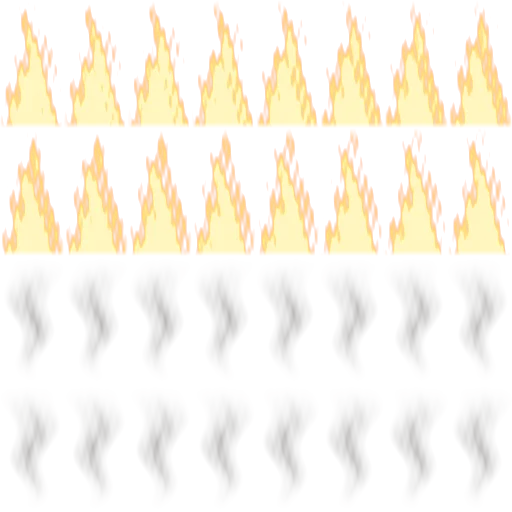
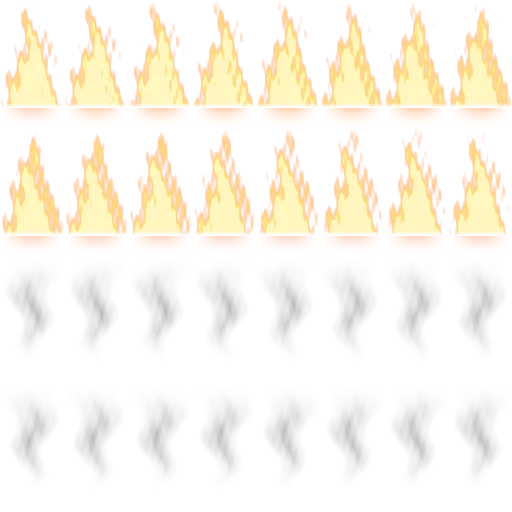
fix(fire): balance firefighting and animate firelight
Pause repairs while fires burn and tune suppression, damage, spread and water capacity.

Add rescue coverage and bake animated firelight into the flame atlas.

Live-Update: breaking (fire simulation and rendering changes)

diff --git a/tests/e2e/fireSystem.test.js b/tests/e2e/fireSystem.test.js
@@ -29,8 +29,8 @@ test('[E00262] fire engine extinguishes a burning building and restores fire sta
   })
   expect(result.restored).toBe(true)
   expect(result.burning).toBe(false)
-  expect(result.water).toBeGreaterThan(870)
-  expect(result.water).toBeLessThan(881)
+  expect(result.water).toBeGreaterThan(1778)
+  expect(result.water).toBeLessThan(1781)
   expect(result.damaged).toBe(true)
   await expect.poll(() => page.evaluate(async() => {
     const { getPreparedSprite } = await import('/src/rendering/prepared/preparedSpritePipeline.js')
@@ -77,4 +77,99 @@ test('[E00263] fire atlas prepares and graphics quality variants render transluc
   await detail.selectOption('high')
   expect(result.width).toBe(512)
   expect(result.modes).toEqual([{ detail: 'high', translucent: true }, { detail: 'low', translucent: true }])
+})
+
+test('[E00266] one engine saves a fully burning 3x3 building with neighbouring fire', async({ page }) => {
+  await prepareRegressionScenario(page, '419&size=64&players=2')
+  const result = await page.evaluate(async() => {
+    const { createBuilding, placeBuilding } = await import('/src/buildings.js')
+    const { igniteTile, updateFireSystem } = await import('/src/game/fireSystem.js')
+    const gs = window.gameState
+    const owner = window.__regression.human
+    const building = createBuilding('vehicleFactory', 26, 22)
+    building.owner = owner
+    gs.buildings.push(building)
+    placeBuilding(building, gs.mapGrid, gs.occupancyMap)
+    const truck = window.__regression.unit('fireEngine', owner, 25, 23)
+    for (let y = 22; y < 25; y++) for (let x = 26; x < 29; x++) {
+      igniteTile(gs, gs.mapGrid, x, y)
+      gs.mapGrid[y][x].fire.age = 80
+    }
+    // A neighbouring fire can spread back into the building and is within hose range.
+    gs.mapGrid[21][26].type = 'woods'
+    igniteTile(gs, gs.mapGrid, 26, 21)
+    gs.mapGrid[21][26].fire.age = 80
+    let seed = 123456
+    const random = () => { seed = (Math.imul(seed, 1664525) + 1013904223) >>> 0; return seed / 4294967296 }
+    let ticks = 0
+    while (gs.fires.length && building.health > 0 && truck.water > 0 && ticks < 60 * 120) {
+      updateFireSystem([truck], gs, gs.mapGrid, 1000 / 60, null, random)
+      ticks++
+    }
+    return { fires: gs.fires.length, health: building.health, water: truck.water, ticks }
+  })
+  expect(result.fires).toBe(0)
+  expect(result.health).toBeGreaterThan(0)
+  expect(result.water).toBeGreaterThan(0)
+  expect(result.ticks).toBeLessThan(60 * 120)
+})
+
+
+test('[E00267] fire pauses repairs until the attack cooldown expires', async({ page }) => {
+  await prepareRegressionScenario(page, '419&size=64&players=2')
+  const result = await page.evaluate(async() => {
+    const { createBuilding, placeBuilding, updateBuildingsUnderRepair, updateBuildingsAwaitingRepair } = await import('/src/buildings.js')
+    const { igniteTile, updateFireSystem, restoreFires } = await import('/src/game/fireSystem.js')
+    const gs = window.gameState
+    const building = createBuilding('vehicleFactory', 26, 22)
+    building.owner = window.__regression.human
+    gs.buildings.push(building)
+    placeBuilding(building, gs.mapGrid, gs.occupancyMap)
+    building.health -= 50
+    gs.buildingsUnderRepair = [{ building, startTime: performance.now(), duration: 20000, startHealth: building.health, targetHealth: building.maxHealth, healthToRepair: 50, cost: 100, costPaid: 0 }]
+    igniteTile(gs, gs.mapGrid, 26, 22)
+    updateFireSystem([], gs, gs.mapGrid, 1000)
+    const attackTime = building.lastAttackedTime
+    updateBuildingsUnderRepair(gs, attackTime)
+    const paused = gs.buildingsUnderRepair.length === 0 && gs.buildingsAwaitingRepair.length === 1
+    updateBuildingsAwaitingRepair(gs, attackTime + 9999)
+    const waiting = gs.buildingsUnderRepair.length === 0
+    restoreFires(gs, gs.mapGrid, [])
+    updateBuildingsAwaitingRepair(gs, attackTime + 10000)
+    return { paused, waiting, resumed: gs.buildingsUnderRepair.length === 1 }
+  })
+  expect(result).toEqual({ paused: true, waiting: true, resumed: true })
+})
+
+test('[E00268] the running game saves a fully burning factory with one engine', async({ page }) => {
+  await prepareRegressionScenario(page, '419&size=64&players=2')
+  await page.evaluate(async() => {
+    const { igniteTile } = await import('/src/game/fireSystem.js')
+    const gs = window.gameState
+    const building = window.__regression.building('vehicleFactory', window.__regression.human, 26, 22)
+    const truck = window.__regression.unit('fireEngine', window.__regression.human, 25, 23)
+    for (let y = 22; y < 25; y++) for (let x = 26; x < 29; x++) {
+      igniteTile(gs, gs.mapGrid, x, y)
+      gs.mapGrid[y][x].fire.age = 80
+    }
+    gs.mapGrid[21][26].type = 'woods'
+    igniteTile(gs, gs.mapGrid, 26, 21)
+    gs.mapGrid[21][26].fire.age = 80
+    window.__fireTest = { building, truck }
+    gs.speedMultiplier = 3
+    gs.gamePaused = false
+  })
+  await expect.poll(() => page.evaluate(() => ({
+    fires: window.gameState.fires.length,
+    health: window.__fireTest.building.health,
+    water: window.__fireTest.truck.water
+  })), { timeout: 90000 }).toMatchObject({ fires: 0, health: expect.any(Number), water: expect.any(Number) })
+  const result = await page.evaluate(() => ({
+    alive: window.gameState.buildings.includes(window.__fireTest.building),
+    health: window.__fireTest.building.health,
+    water: window.__fireTest.truck.water
+  }))
+  expect(result.alive).toBe(true)
+  expect(result.health).toBeGreaterThan(0)
+  expect(result.water).toBeGreaterThan(0)
 })

diff --git a/tests/unit/fireSystem.test.js b/tests/unit/fireSystem.test.js
@@ -69,8 +69,8 @@ describe('Fire simulation', () => {
     grid[4][5].type = 'woods'
     igniteTile(state, grid, 4, 4)
     const truck = engine(3, 4)
-    for (let i = 0; i < 3; i++) updateFireSystem([truck], state, grid, 1000, null, () => 0)
-    expect(truck.water).toBe(880)
+    updateFireSystem([truck], state, grid, 500, null, () => 0)
+    expect(truck.water).toBe(980)
     expect(state.fires).toHaveLength(0)
     expect(grid[4][4].tags).not.toContain('fire')
   })
@@ -79,7 +79,7 @@ describe('Fire simulation', () => {
     building(grid, state, 4, 4)
     grid[4][5].type = 'woods'
     igniteTile(state, grid, 4, 4)
-    updateFireSystem([engine(3, 4)], state, grid, 1000, null, () => 0)
+    updateFireSystem([engine(3, 4)], state, grid, 250, null, () => 0)
     updateFireSystem([], state, grid, 5000, null, () => 0)
     expect(grid[4][5].fire).toBeDefined()
   })
@@ -144,10 +144,10 @@ it('[U07178] scales damage, suppression time and spread across all five severiti
     updateFireSystem([], state, grid, 1000)
     expect(house.health).toBe(300 - severity * 2)
     const truck = engine(3, 4)
-    updateFireSystem([truck], state, grid, 3000)
+    updateFireSystem([truck], state, grid, 500)
     expect(Boolean(grid[4][4].fire)).toBe(severity > 1)
     if (severity > 1) {
-      updateFireSystem([truck], state, grid, (severity - 1) * 3000)
+      updateFireSystem([truck], state, grid, (severity - 1) * 500)
       expect(grid[4][4].fire).toBeUndefined()
     }
   }

diff --git a/src/rendering/fireRenderer.js b/src/rendering/fireRenderer.js
@@ -76,7 +76,8 @@ export function renderFires(ctx, state, grid, units, scroll) {
 // At 1,000 visible tiles: <=6,000 quads; raster area scales with DPR squared.
 // No particle objects, gradients, readbacks, filters, or gameplay resizing caches.
 function drawHighFire(ctx, sheet, x, y, tx, ty, severity, strength, now) {
-  const frame = (Math.floor(now / 70) + tx * 3 + ty * 7) & 15
+  const variant = Math.abs((tx * 17 + ty * 31) % 5)
+  const frame = (Math.floor(now / (65 + variant * 7)) + tx * 3 + ty * 7) & 15
   const width = TILE_SIZE * (1.15 + severity * 0.12)
   const height = TILE_SIZE * (0.8 + severity * 0.32)
   const windX = Math.max(-1, Math.min(1, WIND_DIRECTION.x))
@@ -85,7 +86,7 @@ function drawHighFire(ctx, sheet, x, y, tx, ty, severity, strength, now) {
   ctx.translate(x, y)
   ctx.transform(1, 0, -windX * 0.42, 1 - windY * 0.16, 0, 0)
   ctx.globalAlpha = strength
-  ctx.drawImage(sheet, (frame % 8) * 64, Math.floor(frame / 8) * 128, 64, 128, -width / 2, -height, width, height)
+  ctx.drawImage(sheet, (frame % 8) * 64, Math.floor(frame / 8) * 128, 64, 128, -width / 2, -height, width, height * 1.2)
   ctx.globalAlpha = strength * (0.35 + severity * 0.13)
   ctx.drawImage(sheet, (frame % 8) * 64, (2 + Math.floor(frame / 8)) * 128, 64, 128, -width * 0.65, -height * 2, width * 1.3, height * 1.7)
   ctx.fillStyle = '#ffdc89'

diff --git a/src/game/fireSystem.js b/src/game/fireSystem.js
@@ -169,6 +169,7 @@ export function updateFireSystem(units, state, grid, delta, findPath, random = g
   if (!fires?.length) return
   // Fix the count so newly spread fires cannot spread/damage again in this tick.
   const count = fires.length
+  const attackTime = performance.now()
   for (let i = count - 1; i >= 0; i--) {
     const fire = fires[i]
     const severity = getFireSeverity(fire)
@@ -183,7 +184,12 @@ export function updateFireSystem(units, state, grid, delta, findPath, random = g
       let damage = FIRE_DAMAGE_PER_SECOND * severity * seconds
       if (building.owner === state.humanPlayer && globalThis.window?.cheatSystem) damage = window.cheatSystem.preventDamage(building, damage)
       if (building.type === 'city') applyCityDamage(building, damage, grid, state)
-      else { building.health = Math.max(0, building.health - damage); building.destroyedCause = 'fire' }
+      else {
+        building.health = Math.max(0, building.health - damage)
+        building.destroyedCause = 'fire'
+        building.lastAttackedTime = attackTime
+        building.needsRepairPause = true
+      }
     }
     if (fire.sprayed) { fire.spreadElapsed = 0; continue }
     fire.spreadElapsed += seconds

diff --git a/src/config.js b/src/config.js
@@ -2173,11 +2173,11 @@ export const CONFIG_VARIABLE_NAMES = [...EXPORTED_CONFIG_VARIABLES]
 export const CITY_BUILDING_HEALTH = Object.freeze({ 1: 150, 2: 250, 4: 400 })
 
 // Fire spread is rolled once per eligible neighbour every five simulation seconds.
-export let FIRE_SPREAD_PROBABILITY = 0.2
-export let FIRE_DAMAGE_PER_SECOND = 2
-export const FIRE_WATER_CAPACITY = 1000
+export let FIRE_SPREAD_PROBABILITY = 0.04
+export let FIRE_DAMAGE_PER_SECOND = 0.2
+export const FIRE_WATER_CAPACITY = 1800
 export const FIRE_WATER_PER_SECOND = 40
-export const FIRE_EXTINGUISH_SECONDS = 3
+export const FIRE_EXTINGUISH_SECONDS = 0.5
 export const FIRE_HOSE_RANGE = 4
 export function setFireSpreadProbability(value) { FIRE_SPREAD_PROBABILITY = Math.max(0, Math.min(1, Number(value) || 0)) }
 export function setFireDamagePerSecond(value) { FIRE_DAMAGE_PER_SECOND = Math.max(0, Number(value) || 0) }

diff --git a/src/units.js b/src/units.js
@@ -11,7 +11,8 @@ import {
   UNIT_GAS_PROPERTIES,
   TANKER_SUPPLY_CAPACITY,
   UNIT_AMMO_CAPACITY,
-  AMMO_TRUCK_CARGO
+  AMMO_TRUCK_CARGO,
+  FIRE_WATER_CAPACITY
 } from './config.js'
 import { logPerformance } from './performanceUtils.js'
 import { getUniqueId, updateUnitSpeedModifier, getUnitCost, getBuildingIdentifier } from './utils.js'
@@ -1411,7 +1412,7 @@ export function createUnit(factory, unitType, x, y, options = {}) {
       streetSpeedMultiplier: unitProps.streetSpeedMultiplier || 6.0
     }
   }
-  if (actualType === 'fireEngine') { unit.water = 1000; unit.maxWater = 1000; unit.canFire = false }
+  if (actualType === 'fireEngine') { unit.water = FIRE_WATER_CAPACITY; unit.maxWater = FIRE_WATER_CAPACITY; unit.canFire = false }
   if (actualType === 'tankerTruck') {
     unit.maxSupplyGas = TANKER_SUPPLY_CAPACITY
     unit.supplyGas = TANKER_SUPPLY_CAPACITY

diff --git a/src/buildings.js b/src/buildings.js
@@ -824,7 +824,11 @@ function processPendingRepairPauses(gameState, currentTime) {
   // Check all buildings under repair for pause marks
   gameState.buildingsUnderRepair.forEach(repairInfo => {
     if (repairInfo.building.needsRepairPause) {
-      buildingsToProcess.push(repairInfo.building)
+      if (currentTime - repairInfo.building.lastAttackedTime < 10000) {
+        buildingsToProcess.push(repairInfo.building)
+      } else {
+        delete repairInfo.building.needsRepairPause
+      }
     }
   })
 

diff --git a/specs/fire-system.md b/specs/fire-system.md
@@ -1,10 +1,10 @@
 # Fire system
 
-Fire engines are unarmed ground supply vehicles produced at a Vehicle Factory after a Fire Department is built. Departments unlock after Vehicle Workshop, occupy 3×3 tiles, cost 2500, consume 20 power, have 300 HP and host four engines per owner. Engines cost 900, have 60 HP and carry 1000 water. Alive and queued engines consume capacity; spawn rechecks living capacity. Existing engines can be reassigned after department destruction.
+Fire engines are unarmed ground supply vehicles produced at a Vehicle Factory after a Fire Department is built. Departments unlock after Vehicle Workshop, occupy 3×3 tiles, cost 2500, consume 20 power, have 300 HP and host four engines per owner. Engines cost 900, have 60 HP and carry 1800 water. Alive and queued engines consume capacity; spawn rechecks living capacity. Existing engines can be reassigned after department destruction.
 
-Fire is an independent `fire` tile tag plus a compact active record, on building ground footprints or trees/woods. Tank, rocket and artillery projectile/splash hits roll ignition with probability 0.08 + 0.52 × missing-health fraction. Each burning tile deals FIRE_DAMAGE_PER_SECOND (default 2). Every five seconds without active suppression, neighbours roll FIRE_SPREAD_PROBABILITY (default 0.2). New fires wait their own five seconds. Building embers can cross one nonflammable tile to a distinct building downwind using WIND_DIRECTION shared with smoke. Street and concrete wall tiles are not flammable. Neutral cities use their normal destruction pipeline.
+Fire is an independent `fire` tile tag plus a compact active record, on building ground footprints or trees/woods. Tank, rocket and artillery projectile/splash hits roll ignition with probability 0.08 + 0.52 × missing-health fraction. Each burning tile deals FIRE_DAMAGE_PER_SECOND (default 0.2). Every five seconds without active suppression, neighbours roll FIRE_SPREAD_PROBABILITY (default 0.04). New fires wait their own five seconds. Building embers can cross one nonflammable tile to a distinct building downwind using WIND_DIRECTION shared with smoke. Street and concrete wall tiles are not flammable. Neutral cities use their normal destruction pipeline.
 
-Engines spray the closest fire within four tiles automatically; their loader must be alive. Water drains at 40/s; three total seconds of spray extinguishes one tile. Partial suppression persists, but spread resumes when spraying stops. Empty engines route to an accessible adjacent tile of their assigned department; adjacent friendly assigned engines refill 200/s. Remote fire input controls spraying during manual operation. Ordinary move commands position trucks for spraying. Selected engines show a blue water gauge. CFBL load sensing reports water absolute/relative. Standard cheats discover types from unit/building definitions.
+Engines spray the closest fire within four tiles automatically; their loader must be alive. Water drains at 40/s; 0.5 seconds of spray per severity level extinguishes one tile (2.5 seconds at level 5). Partial suppression persists, but spread resumes when spraying stops. Fire damage resets the normal ten-second repair cooldown and pauses active repairs. Empty engines route to an accessible adjacent tile of their assigned department; adjacent friendly assigned engines refill 200/s. Remote fire input controls spraying during manual operation. Ordinary move commands position trucks for spraying. Selected engines show a blue water gauge. CFBL load sensing reports water absolute/relative. Standard cheats discover types from unit/building definitions.
 
 Save/replay baselines preserve active fire timers, water and station association. Host snapshots also publish active hose targets. Simulation-only updates use deterministic gameRandom and milliseconds. Schema 7 migrates older state without mutation. New art is prepared before play at the existing 1×/2×/3× densities.
 
@@ -39,3 +39,7 @@ Automated browser coverage E00262 passes with system Chromium: cheat-spawned eng
 Save/replay configuration also retains the shared smoke wind vector. Fire-engine repath throttles are saved so restoring a baseline does not reset autonomous routing timing. A real saveGame/loadGame regression verifies these fields alongside water, department ID, per-tile timers and fire tags. The final full unit sweep passed 361 files / 5,726 tests; the subsequent focused persistence/network/fire suite passed 105 tests.
 
 Publication follow-up: four-player replay E00097 runs through recording/playback but reported 98.51% final state overlap against its unchanged 99% acceptance threshold. Investigate the building, achievedMilestones and AI budget differences before claiming replay acceptance. See docs/fire-system-handoff.md.
+
+## Balance and visual update
+
+A full engine can suppress nine level-5 tiles with water to spare. E00266 exercises a 3×3 factory at maximum severity with a neighbouring fire able to spread back, including damage and reinfection. E00267 covers repair pausing and cooldown; E00268 runs the rescue through the normal game loop. The high-detail atlas contains a translucent animated ground glow; tile-dependent frame rates and phases desynchronise flames without additional draw calls. The 60 Hz simulation adds one clock read per active-fire update and constant work per burning building tile. The existing high-detail draw count is unchanged; the first quad extends 20% farther down (about 20% more area for that quad, multiplied by DPR squared). Qualifying hardware performance acceptance remains pending.

diff --git a/prompt-history/2026-11-19T15-55-57Z_fire-balance-visuals.md b/prompt-history/2026-11-19T15-55-57Z_fire-balance-visuals.md
@@ -1,0 +1,4 @@
+2026-11-19 UTC
+Codex using GPT-6 (exact model variant and token counts unavailable).
+
+Ensure buildings cannot be repaired while burning using the existing timeout; give one fire truck enough water and speed to extinguish a fully burning 3x3 building, including neighbouring spread, before destruction. Add an end-to-end test and balance spread, damage and suppression together. Improve fire variation and desynchronize animations; bake animated reddish, orange and yellow translucent downward light into fire sprites without extra runtime effects.

diff --git a/docs/changes/2026-11-19-fire-balance-visuals.md b/docs/changes/2026-11-19-fire-balance-visuals.md
@@ -1,0 +1,3 @@
+- [x] **Firefighting balance and visuals**
+  Pause building repairs during fires, balance engines against spreading fires, and add animated baked firelight.
+  Spec: [Fire system](../../specs/fire-system.md)
